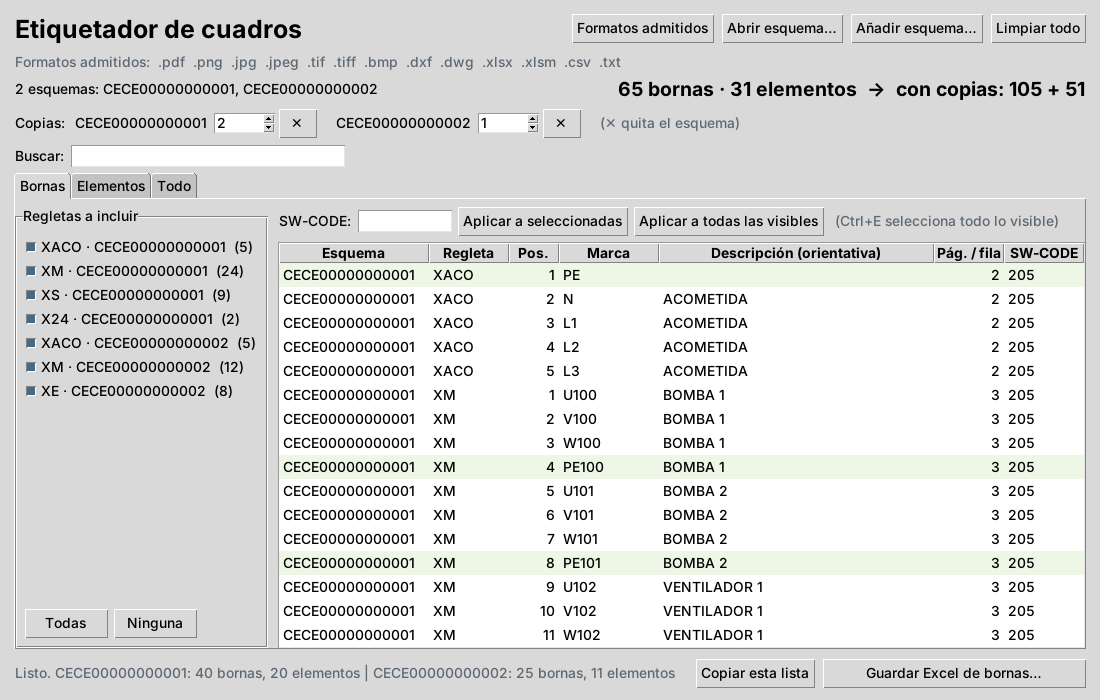
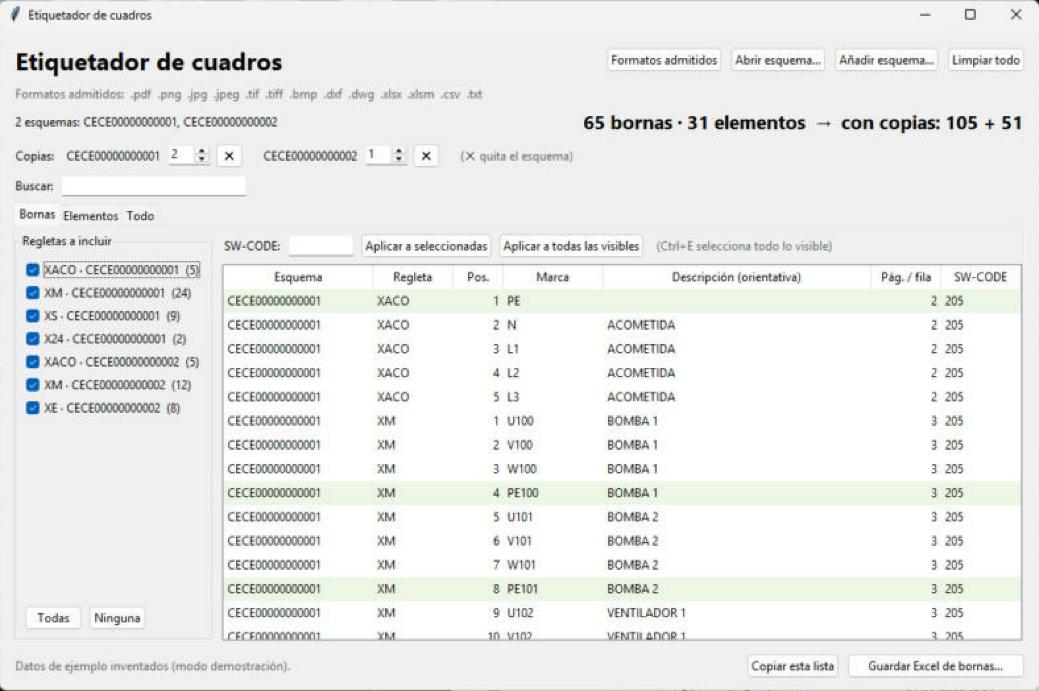
Capturas reales del programa en Windows (modo demo)
Claude-Session: https://claude.ai/code/session_01WZmYEPkxU1bCEpH8qofgCb

diff --git a/README.md b/README.md
@@ -6,7 +6,7 @@ Evita copiar a mano cientos de marcas desde los planos: abres el esquema, revisa
 
 ## Capturas
 
-> Capturas hechas con datos de ejemplo inventados (esquemas CECE00000000001 y CECE00000000002); no corresponden a ningún esquema real.
+> Capturas del programa en Windows en modo demostración (`--demo`), con datos de ejemplo inventados (esquemas CECE00000000001 y CECE00000000002); no corresponden a ningún esquema real.
 
 **Bornas:** marcas de cada regleta, con su esquema, descripción y SW-CODE. Arriba, las copias por esquema y el total de etiquetas.
 
